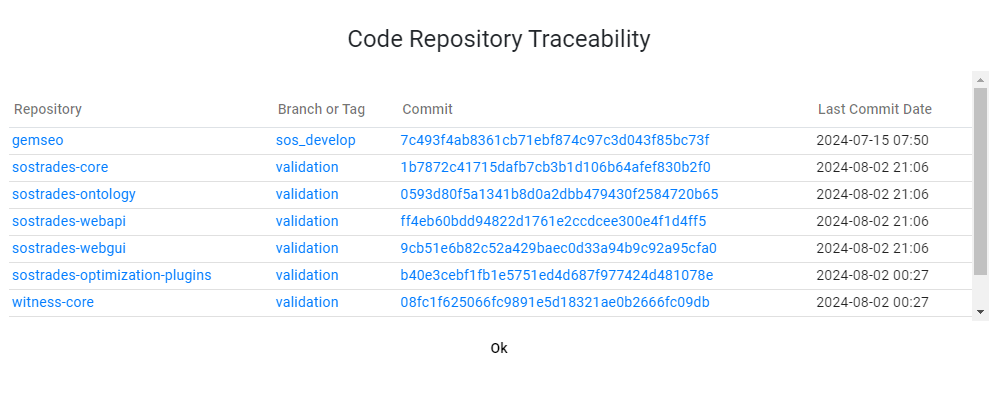
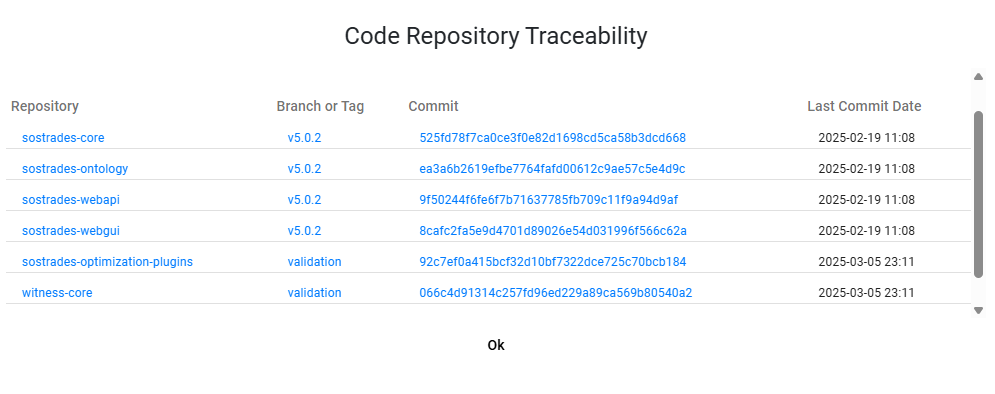
update user manual with some feedback

diff --git a/docs/source/user_manual.md b/docs/source/user_manual.md
@@ -8,19 +8,18 @@ It provides comprehensive guidance on navigating the GUI for easy interaction. L
 
 ## Chapter 1: SOSTrades GUI Connexion 
 
-This chapter offers all the necessary explanations for easily connecting the SoSTrades Graphical User Interface. There are possibilities that you can meet to connect on it, the cloud one and the local one.
+This chapter offers all the necessary explanations for easily connecting the SoSTrades Graphical User Interface. There are possibilities that you can meet to connect on it, the cloud one and the local one. 
 
 ### Section 1.1: First connexion on cloud landing page
 
-On the cloud login page, a redirection occurs to the Keycloak homepage, allowing authentication with a local Keycloak account created by an administrator. Alternatively, a personal GitHub or Google account can be used by clicking the associated button.
+The cloud platform is a collaborative environment where all developer contributions are tested and validated before becoming available on the final link: [https://validation.osc-tsa.com](https://validation.osc-tsa.com).  
+On the cloud login page, a redirection occurs to the Keycloak homepage, allowing authentication with a local Keycloak account created by an administrator. Keycloak is an open-source identity and access management solution that we have chosen to handle authentication and user management on the platform. Alternatively, a personal GitHub or Google account can be used by clicking the associated button. Github and Google account should have the same email address to be associated to the same account.
 
 ![](images/platform-GUI/login-page/keycloak-login-page.png)
 
 
 ### Section 1.2: Connexion on local machine
-
-The connexion with a developer account is only necessary when user use sostrades in a local environment. A developer account can be created by executing the `CreateUser.py` script of the [SoSTrades local installation documentation](installation.md). The user password can be found in the following path `./sostrades-dev-tools-test-uv/platform/sostrades-webapi/sos_trades_api/secret/`
-
+SoSTrades can be installed on a local machine by following this installation [documentation](installation.md).  Once the installation is successfully completed, the user created with the `CreateUser.py` script from the documentation can be used to access the local platform at [http://localhost:4200/](http://localhost:4200/). The user password can be found in the following path: `./sostrades-dev-tools-test-uv/platform/sostrades-webapi/sos_trades_api/secret/`.  
 ![](images/platform-GUI/login-page/local-login-page.png)
 
 ## Chapter 2: GUI Homepage and Menus
@@ -31,18 +30,22 @@ This chapter provides an overview of the GUI homepage, navigation menus, includi
 
 ![](images/platform-GUI/welcome-page/numbered-welcome-page.png)
 
-After connecting to SoSTrades GUI platform they are many informations displayed on the homepage. Each numbered boxes are describe bellow:
-- **1- Menu button:** From this button you can navigate to the different pages of the GUI like return to the homepage, access to study and reference management pages, ontology, group management and manager.
+After connecting to SoSTrades GUI platform they are many informations displayed on the homepage. Each numbered box is described below:
+- **1- Menu button:** From this button you can navigate to the different pages which will be detailed in next chapters
 - **2- Platform information:** In this box, the name and creation date of the platform are displayed. When on a hosted platform, the box is clickable to view more details about the different Git repositories the platform is based on.
 - **3- User information:** The name of the current user is displayed
 - **4- Contact button:** Show the email address of the support team
 - **5- Logout button:** Here is the button to logout
-- **6- Favorite studies:** At the bottom of the homepage there are the last opened and favorite study of the current user. 
+- **6- Favorite studies:** At the bottom of the homepage there are the last opened and favorite study of the current user. Favorite studies can be marked with a star in the study management panel (see next section)
 - **7- Header color:** The color of the header is configurable during the platform's creation. For example when the platform is hosted, it has a different color than the purple one used for local platforms.
+
+By clicking on the Platform Information box, a table appears summarizing all Git repository details used to build the platform. The table includes the repository name, the branch or tag in use, the commit identifier, and the last commit date. This allows users to track the exact versions of the different components that make up the platform.  
+![](images/platform-GUI/header/platform-version.png)  
+![](images/platform-GUI/header/header-code-traceability.png)  
 
 ### Section 2.2: Study Management Visualisation
 
-From the menu button, it is possible to access the study management page and list all the studies that the current user can access, according to their rights on each study, as well as the rights of the groups they belong to. On that page, it is possible to search for a study by its name using the search bar. A study can also be created with the 'Create Study' button, which will be explained in more detail later in this documentation.  
+From the menu button, it is possible to access the study management page and list all the studies that the current user can access, according to their rights on each study, as well as the rights of the groups to which they belong. On that page, it is possible to search for a study by name using the search bar. A study can also be created with the 'Create Study' button, which will be explained in more detail later in this documentation.  
 ![](images/platform-GUI/header/menu-study.png)
 ![](images/platform-GUI/study-management/study-management-list.png)
 
@@ -54,7 +57,7 @@ Similar to the study management page, the reference management page can be acces
 ### Section 2.4: Group Management
 Each user belongs to, at least, one group with rights. 
 - **Owner** : When a user create a group, he is the owner of the group. The owner cannot be changed and has the full rights on the group (edition, deletion, manage access rights).
-- **Manager** : an edit a group (name and description), manage access rights to the group (can add or remove user or group, but cannot change its own access right nor the owner), can create study into this group. A manager can't delete a group, only the owner can do it.
+- **Manager** : edit a group (name and description), manage access rights to the group (can add or remove user or group, but cannot change its own access right nor the owner), can create study into this group. A manager can't delete a group, only the owner can do it.
 - **Member** : A member of a group can only create studies into this group. 
 
 These groups contain studies created by user and provide user an access right on it.
